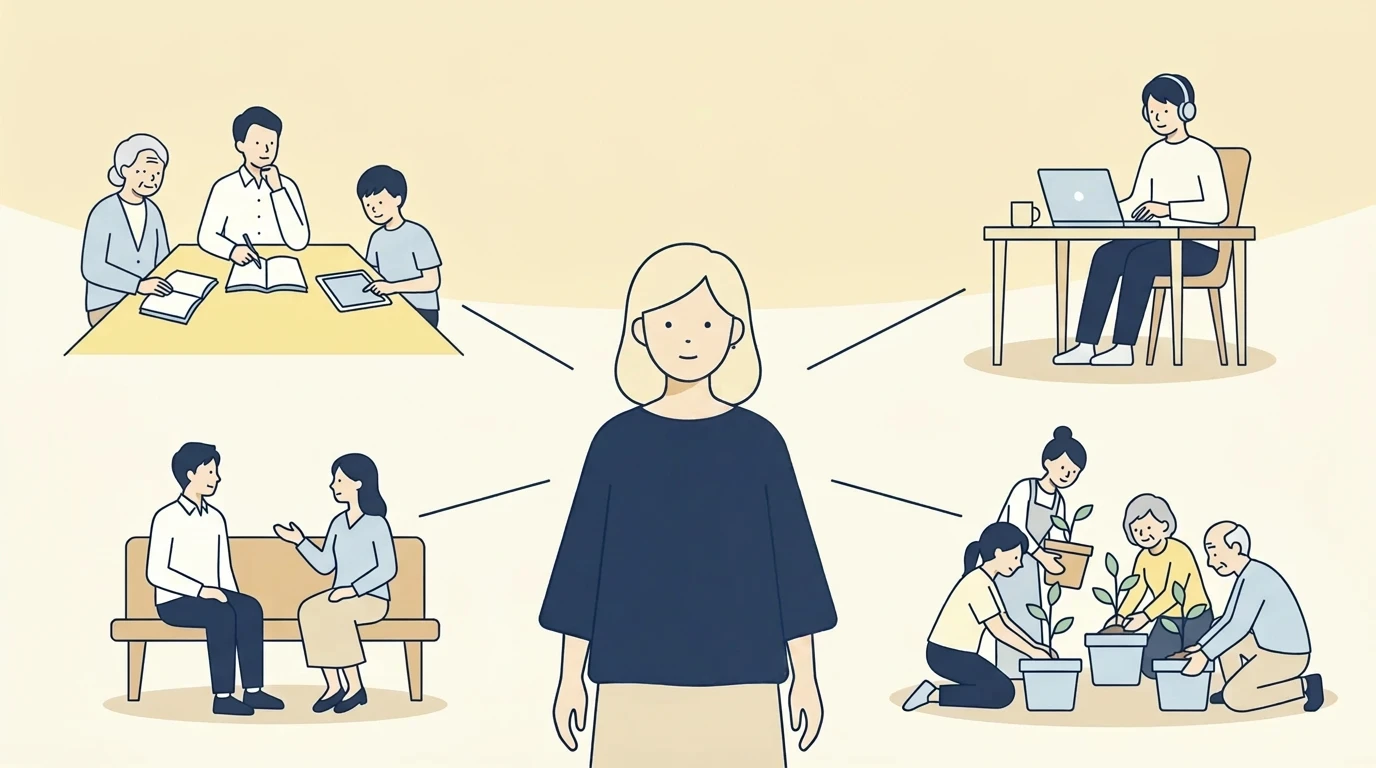
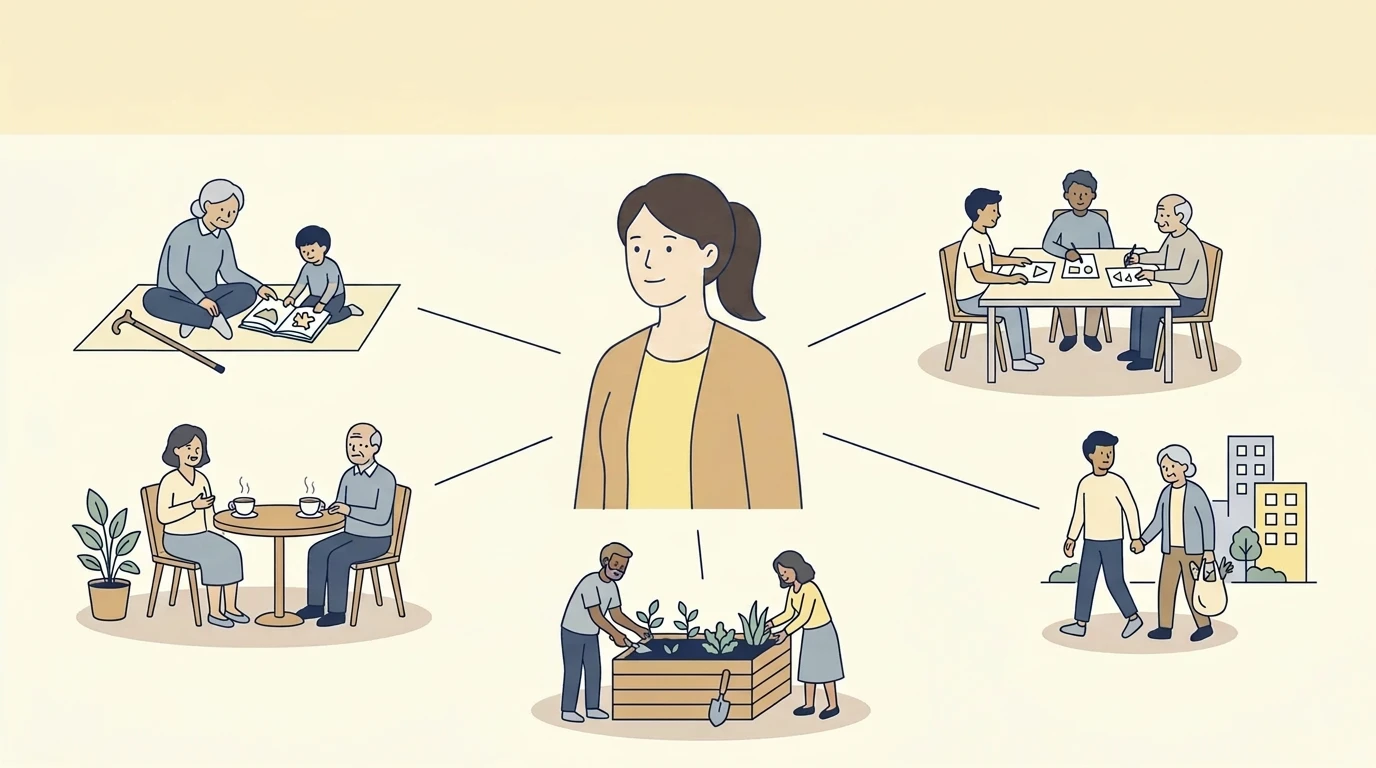
トップのヒーロー画像を刷新し、note導線を現在の活動へ移動
- hero-connections: 中央に女性、周囲に世代を超えた地域のつながり5場面
  （高齢者と子どもの読み聞かせ、団らん、学びの輪、地域の見守り、共同菜園）を
  細い線でつなぐ構図に。中央の女性は茶髪・肩までの一つ結び
- image_presets_official.py: heroプリセットを地域・多世代のつながり重視に更新。
  「i が we の中にいる」を全体トーンとしてCOMMON_STYLE_GUIDEに明文化
- index.njk: 「年齢を重ねた方と家族の暮らし・お金」ブロックのnoteカードを
  「いま、Wieが行っていること」セクションへ移動。hero画像のalt文を更新

diff --git a/scripts/image_presets_official.py b/scripts/image_presets_official.py
@@ -63,13 +63,17 @@ PRESETS = {
         + "\n\nSCENE: a woman standing calmly near the centre of the frame, "
         "shown waist up, relaxed and quietly confident. Loosely arranged around "
         "her (to her left and right, a little above and below) are several "
-        "small flat vignettes of everyday society: a few people at a table in a "
-        "learning session, two people in conversation, a person working at a "
-        "home desk, a small group activity. A single thin navy line links each "
-        "vignette to her, so she is clearly held within society and connected "
-        "into it - part of it, not standing apart. A natural mix of ages and "
-        "genders in the surrounding vignettes. Calm pale background; keep the "
-        "upper area fairly open for a headline.",
+        "small flat vignettes of everyday community life, each linked to her by "
+        "a single thin navy line so she is clearly held within society and "
+        "belongs to it. The vignettes MUST include a clear mix of generations: "
+        "an older person and a young child looking at a picture book together; "
+        "neighbours of different ages chatting over tea; a small learning "
+        "circle at a table; someone walking beside an older neighbour; a few "
+        "people of mixed ages tending a shared garden. Show children, "
+        "parent-age adults and older people. Keep work and office motifs to a "
+        "minimum - no laptops, screens or headphones as a focus. The feeling is "
+        "belonging and connection across the whole community, not careers. Calm "
+        "pale background; keep the upper area fairly open for a headline.",
     },
     "about-possibilities.webp": {
         "kind": "editorial-illustration",
